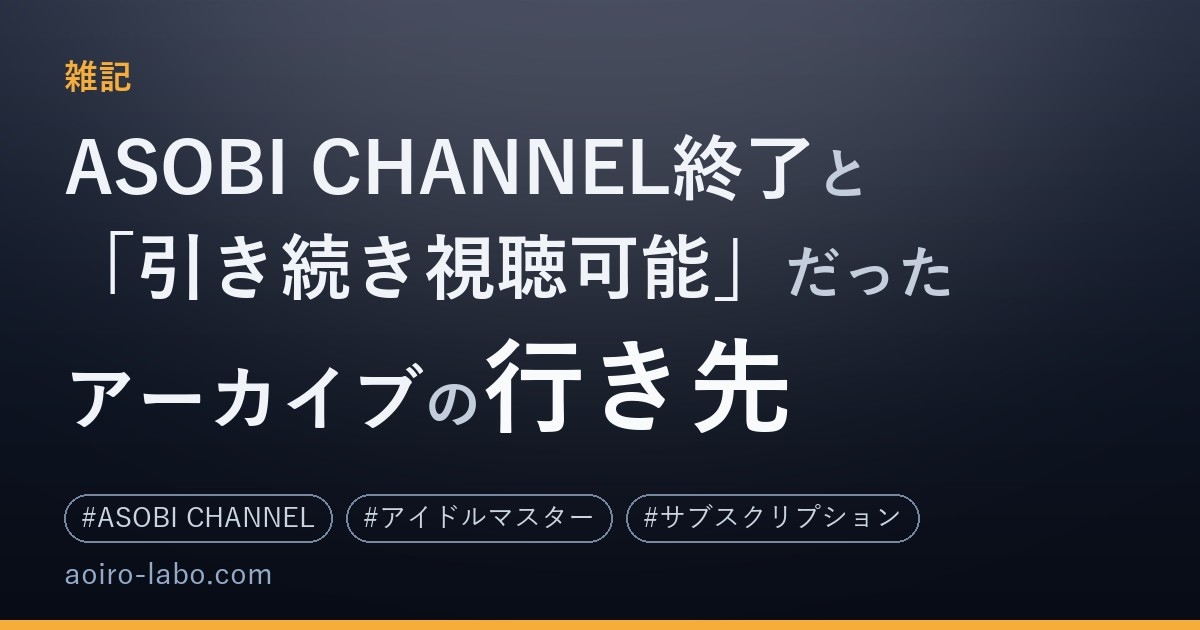
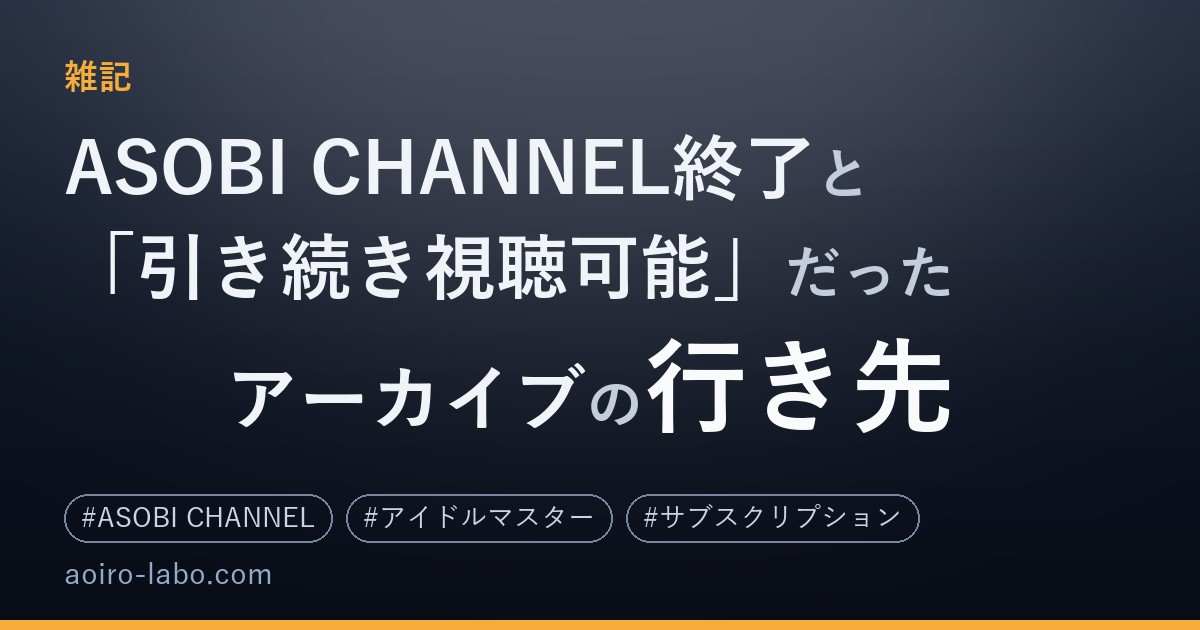
カバー生成：最終行が短い場合は右寄せにする

Changed region(s): [[0.0617, 0.5429, 0.8017, 0.6937]]

diff --git a/tools/generate_cover.py b/tools/generate_cover.py
@@ -226,12 +226,18 @@ def line_heights(lines, size, acc):
     return hs
 
 def draw_lines(d, items, lines, widths, x0, y_top, size, acc, heights):
+    line_ws=[]; _i=0
+    for ln in lines:
+        line_ws.append(sum(widths[_i:_i+len(ln)])); _i+=len(ln)
+    maxlw=max(line_ws) if line_ws else 0
     y=y_top
     idx=0
     for li, ln in enumerate(lines):
         mx=max(style_of(cls, size, acc)[0].size for (text, cls, glue) in ln)
         baseline=y+mx
         x=x0
+        if len(lines)>=2 and li==len(lines)-1 and maxlw and line_ws[li] < maxlw*0.82:
+            x = x0 + (maxlw - line_ws[li])
         for (text, cls, glue) in ln:
             fnt,col=style_of(cls, size, acc)
             d.text((x, baseline), text, font=fnt, fill=col, anchor='ls')
